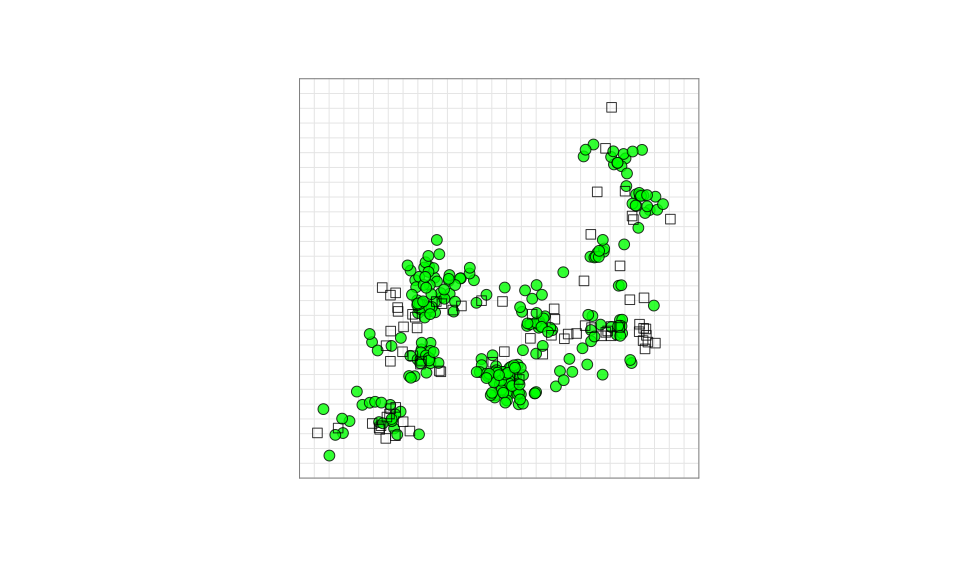
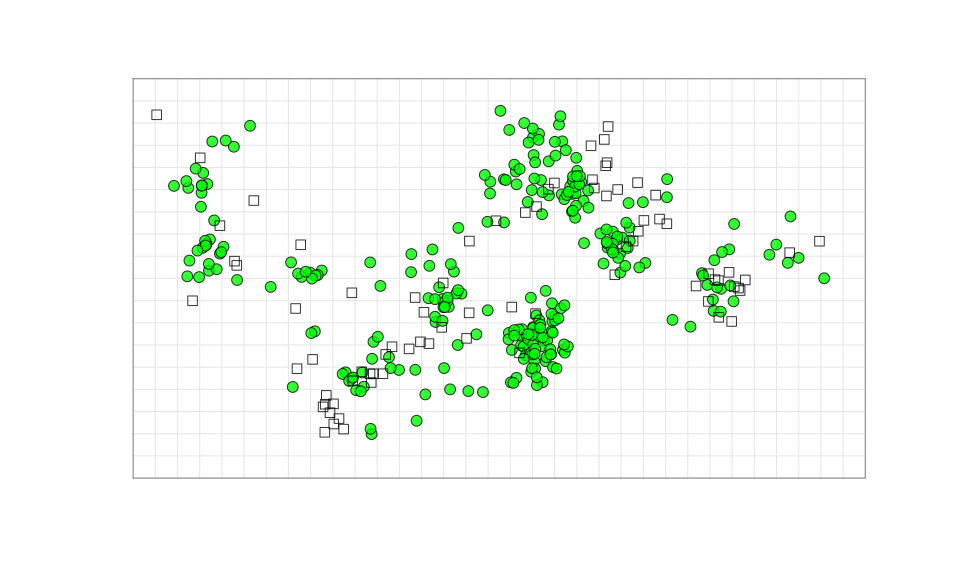
Built site for Racmacs: 1.1.34@debb461

diff --git a/reference/srAttributes.html b/reference/srAttributes.html
@@ -17,7 +17,7 @@
       </button>
       <span class="navbar-brand">
         <a class="navbar-link" href="../index.html">Racmacs</a>
-        <span class="version label label-default" data-toggle="tooltip" data-placement="bottom" title="">1.1.33</span>
+        <span class="version label label-default" data-toggle="tooltip" data-placement="bottom" title="">1.1.34</span>
       </span>
     </div>
 
@@ -70,14 +70,12 @@
 <span class="fu">srReference</span><span class="op">(</span><span class="va">map</span><span class="op">)</span> <span class="op">&lt;-</span> <span class="va">value</span>
 <span class="fu">srNames</span><span class="op">(</span><span class="va">map</span><span class="op">)</span>
 <span class="fu">srNames</span><span class="op">(</span><span class="va">map</span><span class="op">)</span> <span class="op">&lt;-</span> <span class="va">value</span>
-<span class="fu">srNamesFull</span><span class="op">(</span><span class="va">map</span><span class="op">)</span>
-<span class="fu">srNamesFull</span><span class="op">(</span><span class="va">map</span><span class="op">)</span> <span class="op">&lt;-</span> <span class="va">value</span>
-<span class="fu">srNamesAbbreviated</span><span class="op">(</span><span class="va">map</span><span class="op">)</span>
-<span class="fu">srNamesAbbreviated</span><span class="op">(</span><span class="va">map</span><span class="op">)</span> <span class="op">&lt;-</span> <span class="va">value</span>
 <span class="fu">srExtra</span><span class="op">(</span><span class="va">map</span><span class="op">)</span>
 <span class="fu">srExtra</span><span class="op">(</span><span class="va">map</span><span class="op">)</span> <span class="op">&lt;-</span> <span class="va">value</span>
 <span class="fu">srPassage</span><span class="op">(</span><span class="va">map</span><span class="op">)</span>
-<span class="fu">srPassage</span><span class="op">(</span><span class="va">map</span><span class="op">)</span> <span class="op">&lt;-</span> <span class="va">value</span></code></pre></div>
+<span class="fu">srPassage</span><span class="op">(</span><span class="va">map</span><span class="op">)</span> <span class="op">&lt;-</span> <span class="va">value</span>
+<span class="fu">srSpecies</span><span class="op">(</span><span class="va">map</span><span class="op">)</span>
+<span class="fu">srSpecies</span><span class="op">(</span><span class="va">map</span><span class="op">)</span> <span class="op">&lt;-</span> <span class="va">value</span></code></pre></div>
     </div>
 
     <div id="arguments">

diff --git a/news/index.html b/news/index.html
@@ -17,7 +17,7 @@
       </button>
       <span class="navbar-brand">
         <a class="navbar-link" href="../index.html">Racmacs</a>
-        <span class="version label label-default" data-toggle="tooltip" data-placement="bottom" title="">1.1.33</span>
+        <span class="version label label-default" data-toggle="tooltip" data-placement="bottom" title="">1.1.34</span>
       </span>
     </div>
 
@@ -247,6 +247,11 @@
 </li>
 <li>Verbosity argument also suppresses optimization progress messages</li>
 <li>Issue a warning if duplicate antigen or serum names are found when creating a map</li>
+</ul></div>
+    <div class="section level2">
+<h2 class="page-header" data-toc-text="1.1.34" id="racmacs-1134">Racmacs 1.1.34<a class="anchor" aria-label="anchor" href="#racmacs-1134"></a></h2>
+<ul><li>Add support for getting and setting serum species with <code><a href="../reference/srAttributes.html">srSpecies()</a></code>.</li>
+<li>Redundant attributes <code>agNamesAbbreviated</code>, <code>agNamesFull</code>, <code>srNamesAbbreviated</code>, <code>srNamesFull</code> removed</li>
 </ul></div>
   </div>
 

diff --git a/reference/agAttributes.html b/reference/agAttributes.html
@@ -17,7 +17,7 @@
       </button>
       <span class="navbar-brand">
         <a class="navbar-link" href="../index.html">Racmacs</a>
-        <span class="version label label-default" data-toggle="tooltip" data-placement="bottom" title="">1.1.33</span>
+        <span class="version label label-default" data-toggle="tooltip" data-placement="bottom" title="">1.1.34</span>
       </span>
     </div>
 
@@ -70,10 +70,6 @@
 <span class="fu">agReference</span><span class="op">(</span><span class="va">map</span><span class="op">)</span> <span class="op">&lt;-</span> <span class="va">value</span>
 <span class="fu">agNames</span><span class="op">(</span><span class="va">map</span><span class="op">)</span>
 <span class="fu">agNames</span><span class="op">(</span><span class="va">map</span><span class="op">)</span> <span class="op">&lt;-</span> <span class="va">value</span>
-<span class="fu">agNamesFull</span><span class="op">(</span><span class="va">map</span><span class="op">)</span>
-<span class="fu">agNamesFull</span><span class="op">(</span><span class="va">map</span><span class="op">)</span> <span class="op">&lt;-</span> <span class="va">value</span>
-<span class="fu">agNamesAbbreviated</span><span class="op">(</span><span class="va">map</span><span class="op">)</span>
-<span class="fu">agNamesAbbreviated</span><span class="op">(</span><span class="va">map</span><span class="op">)</span> <span class="op">&lt;-</span> <span class="va">value</span>
 <span class="fu">agExtra</span><span class="op">(</span><span class="va">map</span><span class="op">)</span>
 <span class="fu">agExtra</span><span class="op">(</span><span class="va">map</span><span class="op">)</span> <span class="op">&lt;-</span> <span class="va">value</span>
 <span class="fu">agPassage</span><span class="op">(</span><span class="va">map</span><span class="op">)</span>

diff --git a/reference/index.html b/reference/index.html
@@ -17,7 +17,7 @@
       </button>
       <span class="navbar-brand">
         <a class="navbar-link" href="../index.html">Racmacs</a>
-        <span class="version label label-default" data-toggle="tooltip" data-placement="bottom" title="">1.1.33</span>
+        <span class="version label label-default" data-toggle="tooltip" data-placement="bottom" title="">1.1.34</span>
       </span>
     </div>
 
@@ -368,7 +368,7 @@
           <p class="section-desc"></p>
         </th>
       </tr></tbody><tbody><tr><td>
-          <p><code><a href="agAttributes.html">agIDs()</a></code> <code><a href="agAttributes.html">`agIDs&lt;-`()</a></code> <code><a href="agAttributes.html">agDates()</a></code> <code><a href="agAttributes.html">`agDates&lt;-`()</a></code> <code><a href="agAttributes.html">agReference()</a></code> <code><a href="agAttributes.html">`agReference&lt;-`()</a></code> <code><a href="agAttributes.html">agNames()</a></code> <code><a href="agAttributes.html">`agNames&lt;-`()</a></code> <code><a href="agAttributes.html">agNamesFull()</a></code> <code><a href="agAttributes.html">`agNamesFull&lt;-`()</a></code> <code><a href="agAttributes.html">agNamesAbbreviated()</a></code> <code><a href="agAttributes.html">`agNamesAbbreviated&lt;-`()</a></code> <code><a href="agAttributes.html">agExtra()</a></code> <code><a href="agAttributes.html">`agExtra&lt;-`()</a></code> <code><a href="agAttributes.html">agPassage()</a></code> <code><a href="agAttributes.html">`agPassage&lt;-`()</a></code> </p>
+          <p><code><a href="agAttributes.html">agIDs()</a></code> <code><a href="agAttributes.html">`agIDs&lt;-`()</a></code> <code><a href="agAttributes.html">agDates()</a></code> <code><a href="agAttributes.html">`agDates&lt;-`()</a></code> <code><a href="agAttributes.html">agReference()</a></code> <code><a href="agAttributes.html">`agReference&lt;-`()</a></code> <code><a href="agAttributes.html">agNames()</a></code> <code><a href="agAttributes.html">`agNames&lt;-`()</a></code> <code><a href="agAttributes.html">agExtra()</a></code> <code><a href="agAttributes.html">`agExtra&lt;-`()</a></code> <code><a href="agAttributes.html">agPassage()</a></code> <code><a href="agAttributes.html">`agPassage&lt;-`()</a></code> </p>
         </td>
         <td><p>Getting and setting antigen attributes</p></td>
       </tr><tr><td>
@@ -392,7 +392,7 @@
         </td>
         <td><p>Getting and setting point clade information</p></td>
       </tr><tr><td>
-          <p><code><a href="srAttributes.html">srIDs()</a></code> <code><a href="srAttributes.html">`srIDs&lt;-`()</a></code> <code><a href="srAttributes.html">srDates()</a></code> <code><a href="srAttributes.html">`srDates&lt;-`()</a></code> <code><a href="srAttributes.html">srReference()</a></code> <code><a href="srAttributes.html">`srReference&lt;-`()</a></code> <code><a href="srAttributes.html">srNames()</a></code> <code><a href="srAttributes.html">`srNames&lt;-`()</a></code> <code><a href="srAttributes.html">srNamesFull()</a></code> <code><a href="srAttributes.html">`srNamesFull&lt;-`()</a></code> <code><a href="srAttributes.html">srNamesAbbreviated()</a></code> <code><a href="srAttributes.html">`srNamesAbbreviated&lt;-`()</a></code> <code><a href="srAttributes.html">srExtra()</a></code> <code><a href="srAttributes.html">`srExtra&lt;-`()</a></code> <code><a href="srAttributes.html">srPassage()</a></code> <code><a href="srAttributes.html">`srPassage&lt;-`()</a></code> </p>
+          <p><code><a href="srAttributes.html">srIDs()</a></code> <code><a href="srAttributes.html">`srIDs&lt;-`()</a></code> <code><a href="srAttributes.html">srDates()</a></code> <code><a href="srAttributes.html">`srDates&lt;-`()</a></code> <code><a href="srAttributes.html">srReference()</a></code> <code><a href="srAttributes.html">`srReference&lt;-`()</a></code> <code><a href="srAttributes.html">srNames()</a></code> <code><a href="srAttributes.html">`srNames&lt;-`()</a></code> <code><a href="srAttributes.html">srExtra()</a></code> <code><a href="srAttributes.html">`srExtra&lt;-`()</a></code> <code><a href="srAttributes.html">srPassage()</a></code> <code><a href="srAttributes.html">`srPassage&lt;-`()</a></code> <code><a href="srAttributes.html">srSpecies()</a></code> <code><a href="srAttributes.html">`srSpecies&lt;-`()</a></code> </p>
         </td>
         <td><p>Getting and setting sera attributes</p></td>
       </tr><tr><td>

diff --git a/404.html b/404.html
@@ -40,7 +40,7 @@
       </button>
       <span class="navbar-brand">
         <a class="navbar-link" href="https://acorg.github.io/Racmacs/index.html">Racmacs</a>
-        <span class="version label label-default" data-toggle="tooltip" data-placement="bottom" title="">1.1.33</span>
+        <span class="version label label-default" data-toggle="tooltip" data-placement="bottom" title="">1.1.34</span>
       </span>
     </div>
 

diff --git a/LICENSE.html b/LICENSE.html
@@ -17,7 +17,7 @@
       </button>
       <span class="navbar-brand">
         <a class="navbar-link" href="index.html">Racmacs</a>
-        <span class="version label label-default" data-toggle="tooltip" data-placement="bottom" title="">1.1.33</span>
+        <span class="version label label-default" data-toggle="tooltip" data-placement="bottom" title="">1.1.34</span>
       </span>
     </div>
 

diff --git a/articles/assessing_map_uncertainty.html b/articles/assessing_map_uncertainty.html
@@ -45,7 +45,7 @@ sera.
       </button>
       <span class="navbar-brand">
         <a class="navbar-link" href="../index.html">Racmacs</a>
-        <span class="version label label-default" data-toggle="tooltip" data-placement="bottom" title="">1.1.33</span>
+        <span class="version label label-default" data-toggle="tooltip" data-placement="bottom" title="">1.1.34</span>
       </span>
     </div>
 

diff --git a/articles/index.html b/articles/index.html
@@ -17,7 +17,7 @@
       </button>
       <span class="navbar-brand">
         <a class="navbar-link" href="../index.html">Racmacs</a>
-        <span class="version label label-default" data-toggle="tooltip" data-placement="bottom" title="">1.1.33</span>
+        <span class="version label label-default" data-toggle="tooltip" data-placement="bottom" title="">1.1.34</span>
       </span>
     </div>
 

diff --git a/articles/intro-to-antigenic-cartography.html b/articles/intro-to-antigenic-cartography.html
@@ -41,7 +41,7 @@
       </button>
       <span class="navbar-brand">
         <a class="navbar-link" href="../index.html">Racmacs</a>
-        <span class="version label label-default" data-toggle="tooltip" data-placement="bottom" title="">1.1.33</span>
+        <span class="version label label-default" data-toggle="tooltip" data-placement="bottom" title="">1.1.34</span>
       </span>
     </div>
 

diff --git a/articles/merging-maps.html b/articles/merging-maps.html
@@ -41,7 +41,7 @@
       </button>
       <span class="navbar-brand">
         <a class="navbar-link" href="../index.html">Racmacs</a>
-        <span class="version label label-default" data-toggle="tooltip" data-placement="bottom" title="">1.1.33</span>
+        <span class="version label label-default" data-toggle="tooltip" data-placement="bottom" title="">1.1.34</span>
       </span>
     </div>
 

diff --git a/authors.html b/authors.html
@@ -17,7 +17,7 @@
       </button>
       <span class="navbar-brand">
         <a class="navbar-link" href="index.html">Racmacs</a>
-        <span class="version label label-default" data-toggle="tooltip" data-placement="bottom" title="">1.1.33</span>
+        <span class="version label label-default" data-toggle="tooltip" data-placement="bottom" title="">1.1.34</span>
       </span>
     </div>
 

diff --git a/index.html b/index.html
@@ -41,7 +41,7 @@
       </button>
       <span class="navbar-brand">
         <a class="navbar-link" href="index.html">Racmacs</a>
-        <span class="version label label-default" data-toggle="tooltip" data-placement="bottom" title="">1.1.33</span>
+        <span class="version label label-default" data-toggle="tooltip" data-placement="bottom" title="">1.1.34</span>
       </span>
     </div>
 